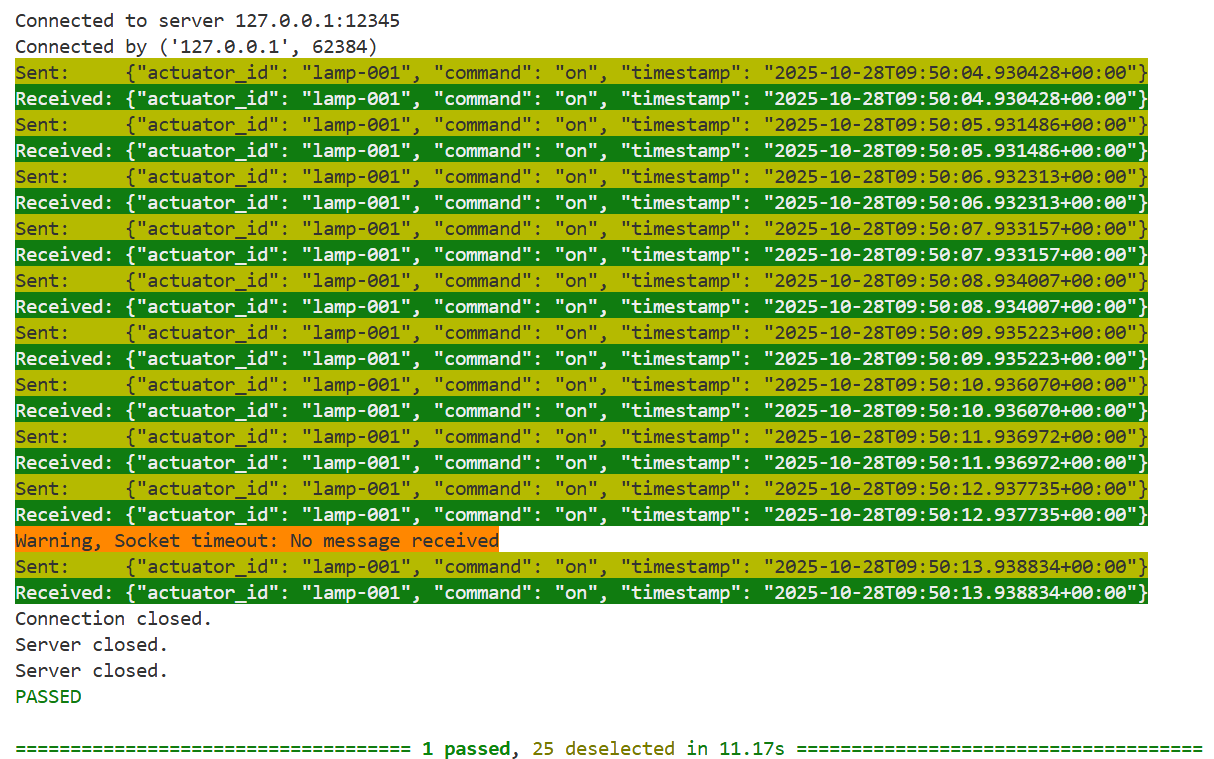
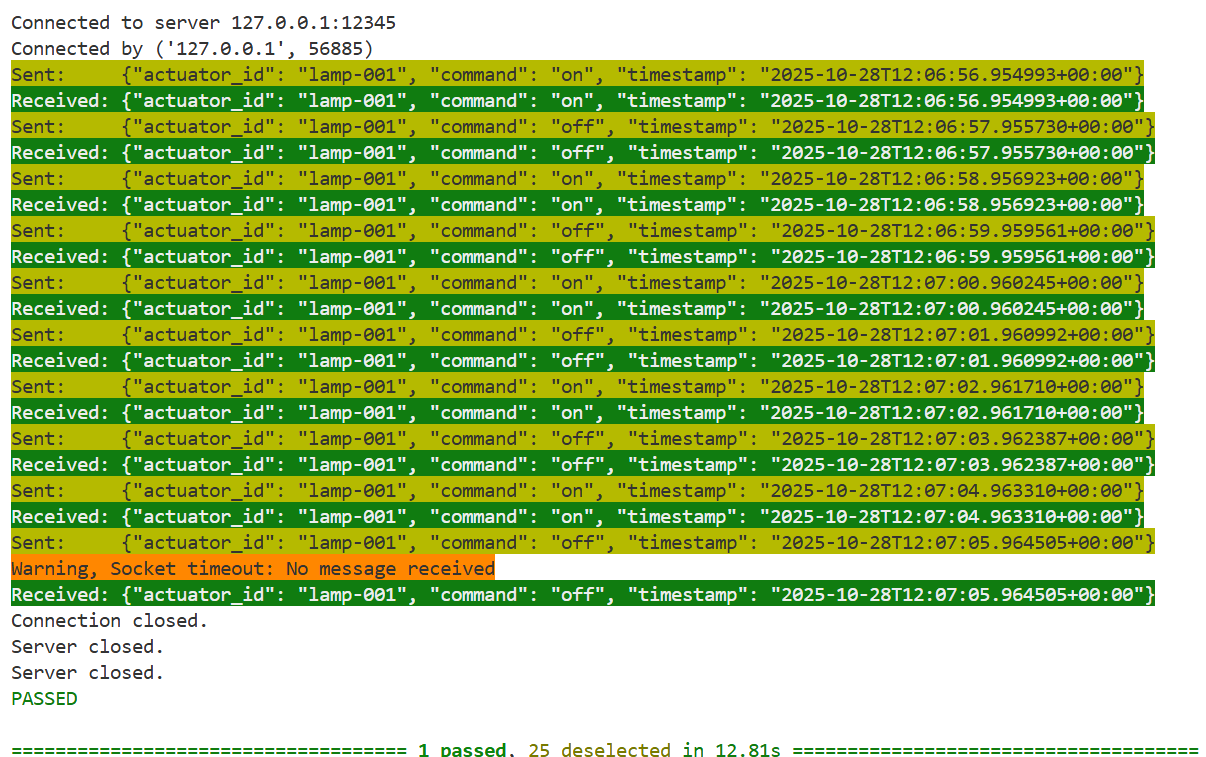
fix to tcp

diff --git a/test/test_2_tcpMessages.py b/test/test_2_tcpMessages.py
@@ -20,10 +20,16 @@ def test_server_client_message_exchange():
     client = TCPClient(host=host, port=port)
     client.connect()
 
-    for _ in range(number_of_messages):
+    state = "off"
+    for n in range(number_of_messages):
+        if state == "on":
+            state = "off"
+        else:
+            state = "on"
+
         message = json.dumps({
             "actuator_id": "lamp-001",
-            "command": "on",
+            "command": state,
             "timestamp": datetime.now(timezone.utc).isoformat(),
         })
         client.send_message(message)
